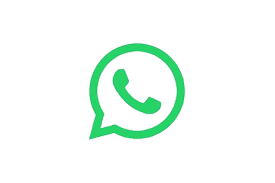
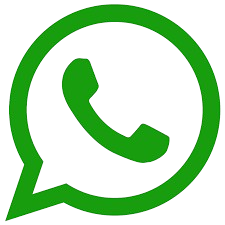
perbaiki uts

diff --git a/resources/views/admin/Pages/auth/login.blade.php b/resources/views/admin/Pages/auth/login.blade.php
@@ -261,37 +261,64 @@
 </body>
 
 <!-- Floating WhatsApp Button -->
-<a href="https://wa.me/6285236969009" class="whatsapp-float" target="_blank" title="Chat via WhatsApp">
-    <img src="{{ asset('assets-template/img/wa.png') }}" alt="WhatsApp">
-</a>
+ <!-- Floating WhatsApp Button -->
+        <a href="https://wa.me/6285836969009?text=Halo%20Admin%2C%20saya%20ingin%20bertanya%20tentang%20sistem%20ini"
+            class="whatsapp-float" target="_blank" title="Hubungi via WhatsApp">
+            <img src="{{ asset('assets-template/img/wa.png') }}" alt="WhatsApp">
+        </a>
 
-<style>
-    .whatsapp-float {
-        position: fixed;
-        bottom: 25px;
-        right: 25px;
-        width: 60px;
-        height: 60px;
-        background-color: #fcfcfc;
-        border-radius: 50%;
-        display: flex;
-        align-items: center;
-        justify-content: center;
-        box-shadow: 0 4px 10px rgba(0, 0, 0, 0.3);
-        z-index: 9999;
-        transition: all 0.3s ease;
-    }
+        <!-- Style Floating WhatsApp -->
+        <style>
+            .whatsapp-float {
+                position: fixed;
+                bottom: 25px;
+                right: 25px;
+                width: 60px;
+                height: 60px;
+                background-color: #f7faf8;
+                border-radius: 50%;
+                display: flex;
+                align-items: center;
+                justify-content: center;
+                box-shadow: 0 4px 10px rgba(0, 0, 0, 0.3);
+                z-index: 9999;
+                transition: all 0.3s ease;
+            }
 
-    .whatsapp-float img {
-        width: 35px;
-        height: 35px;
-    }
+            .whatsapp-float img {
+                width: 100px;
+                height: auto;
+            }
 
-    .whatsapp-float:hover {
-        transform: scale(1.1);
-        background-color: #1ebe5d;
-    }
-</style>
+
+            .whatsapp-float:hover {
+                transform: scale(1.1);
+                background-color: #f3f7f5;
+            }
+
+            .whatsapp-float::after {
+                content: '';
+                position: absolute;
+                width: 60px;
+                height: 60px;
+                border-radius: 50%;
+                background: rgba(255, 255, 255, 0.418);
+                animation: pulse 1.6s infinite;
+                z-index: -1;
+            }
+
+            @keyframes pulse {
+                0% {
+                    transform: scale(1);
+                    opacity: 0.8;
+                }
+
+                100% {
+                    transform: scale(1.8);
+                    opacity: 0;
+                }
+            }
+        </style>
 
 
 </html>

diff --git a/resources/views/admin/Layout/app.blade.php b/resources/views/admin/Layout/app.blade.php
@@ -80,9 +80,10 @@
             }
 
             .whatsapp-float img {
-                width: 35px;
-                height: 35px;
+                width: 100px;
+                height: auto;
             }
+
 
             .whatsapp-float:hover {
                 transform: scale(1.1);
@@ -115,4 +116,5 @@
 
     </main>
 </body>
+
 </html>
